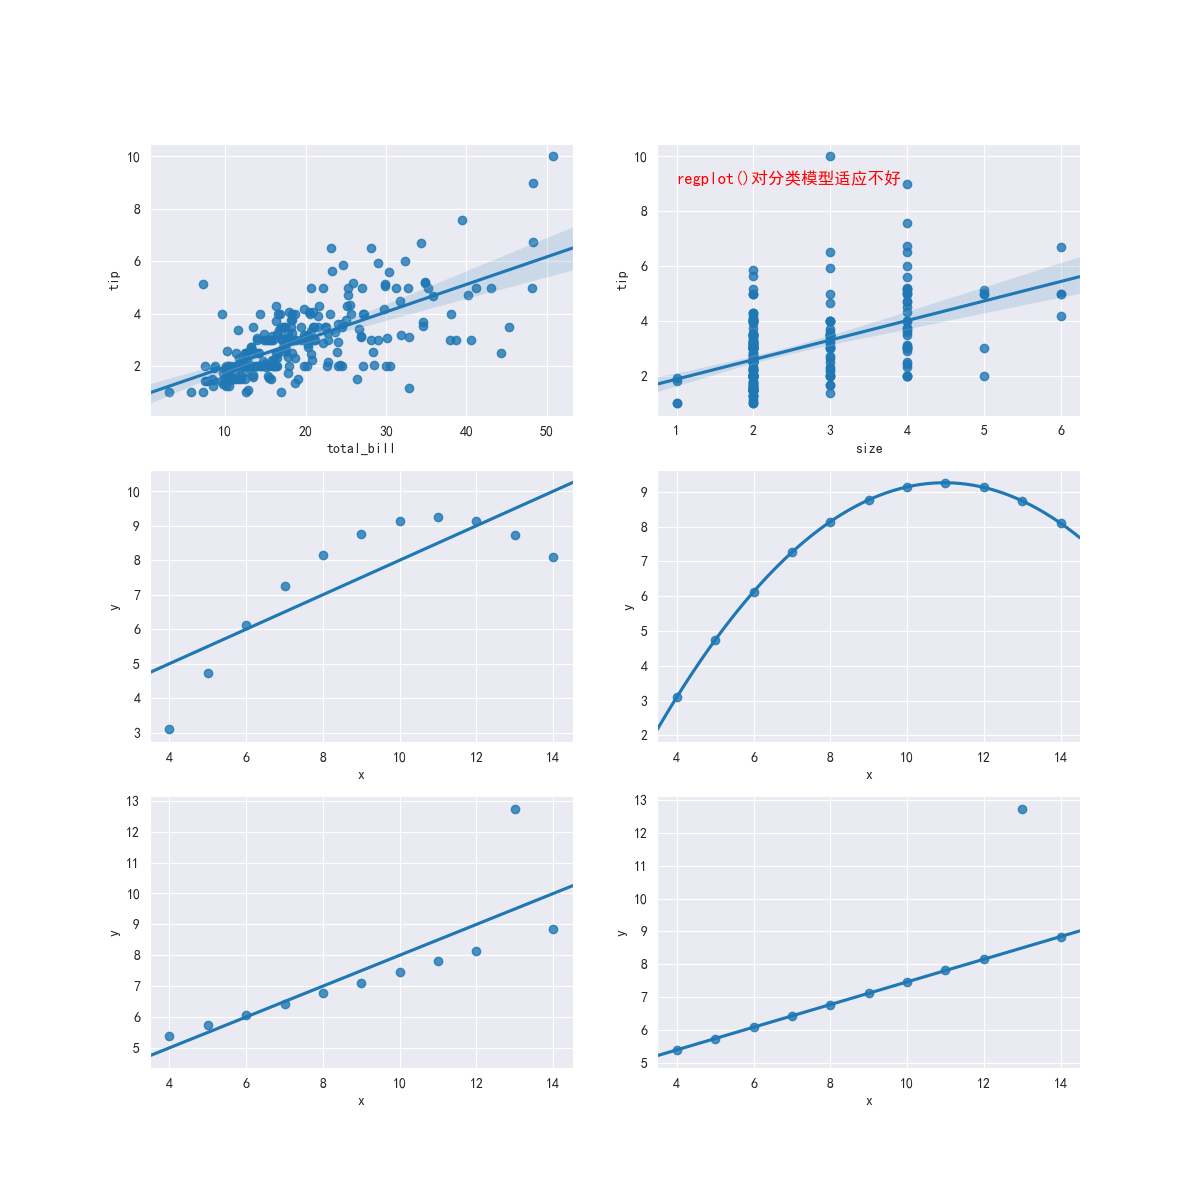
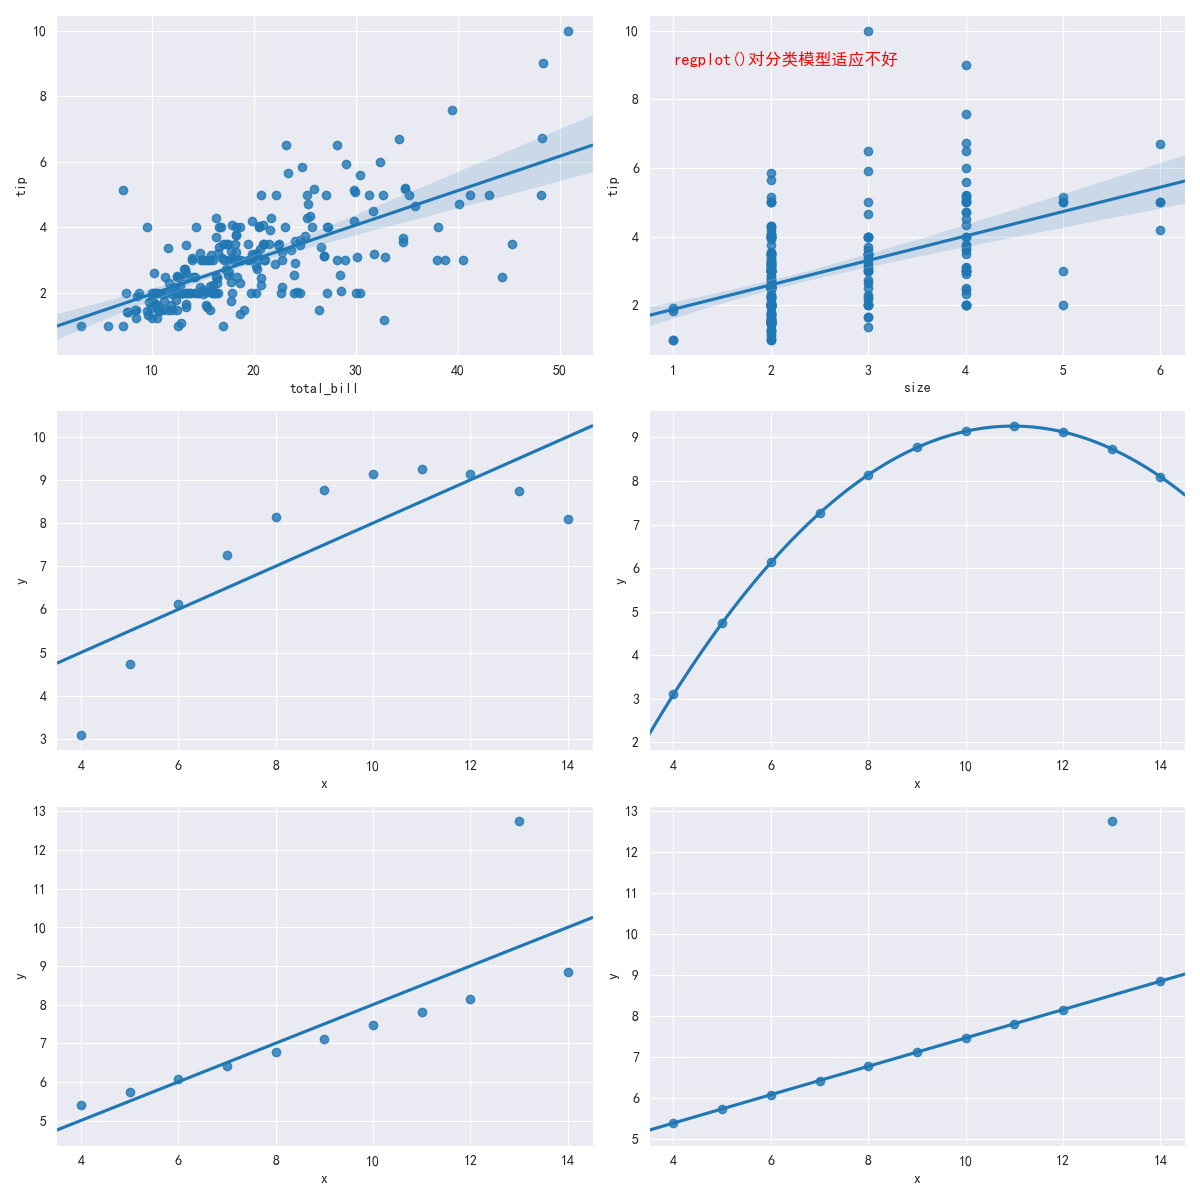
数据分析\数据可视化.md Day 6

diff --git a/assets/scripts/752_08.py b/assets/scripts/752_08.py
@@ -1,0 +1,56 @@
+import numpy as np
+import matplotlib.pyplot as plt
+import seaborn as sns
+import pandas as pd
+
+tips = sns.load_dataset("tips")
+titanic = sns.load_dataset("titanic")
+
+fig, ax = plt.subplots(3, 4, figsize=(16, 12))
+sns.set_style('darkgrid')
+
+plt.rcParams['font.sans-serif'] = ['SimHei'] # 设置显示中文
+plt.rcParams['axes.unicode_minus'] = False # 正常显示坐标轴的负号
+
+ax[0][0].set_title(u'分类散点图1(存在微小抖动)')
+sns.catplot(x="day", y="total_bill", data=tips, ax=ax[0][0])
+
+ax[0][1].set_title(u'分类散点图2(jitter = False来控制抖动大小)')
+sns.catplot(x="day", y="total_bill", jitter = False,data=tips, ax=ax[0][1])
+
+ax[0][2].set_title(u'分类散点图3(kind = "swarm"使得图形分布均匀)')
+sns.catplot(x="day", y="total_bill", kind="swarm", data=tips, ax=ax[0][2])
+
+ax[0][3].set_title(u'分类散点图4(增加第三维度)')
+sns.catplot(x="day", y="total_bill", hue="sex", kind="swarm", data=tips, ax=ax[0][3])
+
+ax[1][0].set_title(u'箱线图1')
+sns.catplot(x="day", y="total_bill", kind="box", data=tips, ax=ax[1][0])
+
+ax[1][1].set_title(u'箱线图2(增加第三维度)')
+sns.catplot(x="day", y="total_bill", hue="smoker", kind="box", data=tips, ax=ax[1][1])
+
+ax[1][2].set_title(u'小提琴图1(密度图和箱型图的结合)')
+sns.catplot(x="day", y="total_bill", hue="time",kind="violin", data=tips, ax=ax[1][2])
+
+ax[1][3].set_title(u'小提琴图2(增加第三维度，split = True 拆分小提琴)')
+sns.catplot(x="day", y="total_bill", hue="sex",kind="violin", split=True, data=tips, ax=ax[1][3])
+
+ax[2][0].set_title(u'条形图1(画出每个类别的平均值，黑色表示估计区间)')
+sns.catplot(x="sex", y="survived", hue="class", kind="bar", data=titanic, ax=ax[2][0])
+
+ax[2][1].set_title(u'条形图2(统计类别数量)')
+sns.catplot(x="deck", kind="count", data=titanic, ax=ax[2][1])
+
+ax[2][2].set_title(u'点图1(只画出估计值和区间)')
+sns.catplot(x="sex", y="survived", hue="class", kind="point", data=titanic, ax=ax[2][2])
+
+ax[2][3].set_title(u'点图2')
+sns.catplot(x="class", y="survived", hue="sex",
+            palette={"male": "g", "female": "m"},
+            markers=["^", "o"], linestyles=["-", "--"],
+            kind="point", data=titanic, ax=ax[2][3])
+
+# fig.suptitle('标题', fontsize=20)
+fig.tight_layout()
+fig.savefig('../images/752_08.png')

diff --git a/assets/scripts/752_07.py b/assets/scripts/752_07.py
@@ -31,5 +31,6 @@ sns.regplot(x = "x", y = "y", data = anscombe.query("dataset == 'III'"), ci = No
 plt.subplot(3, 2, 6)
 sns.regplot(x = "x", y = "y", data = anscombe.query("dataset == 'III'"), ci = None, robust = True) # 数据中有明显错误的数据点可以进行删除
 
+fig.tight_layout()
 plt.savefig('../images/752_07.png')
 plt.show()

diff --git a/数据分析/数据可视化.md b/数据分析/数据可视化.md
@@ -509,4 +509,67 @@ plt.show()
 
 ![拟合模型](../assets/images/752_07.png)
 
+#### 分类绘图
+
+```python
+import numpy as np
+import matplotlib.pyplot as plt
+import seaborn as sns
+import pandas as pd
+
+tips = sns.load_dataset("tips")
+titanic = sns.load_dataset("titanic")
+
+fig, ax = plt.subplots(3, 4, figsize=(16, 12))
+sns.set_style('darkgrid')
+
+plt.rcParams['font.sans-serif'] = ['SimHei'] # 设置显示中文
+plt.rcParams['axes.unicode_minus'] = False # 正常显示坐标轴的负号
+
+ax[0][0].set_title(u'分类散点图1(存在微小抖动)')
+sns.catplot(x="day", y="total_bill", data=tips, ax=ax[0][0])
+
+ax[0][1].set_title(u'分类散点图2(jitter = False来控制抖动大小)')
+sns.catplot(x="day", y="total_bill", jitter = False,data=tips, ax=ax[0][1])
+
+ax[0][2].set_title(u'分类散点图3(kind = "swarm"使得图形分布均匀)')
+sns.catplot(x="day", y="total_bill", kind="swarm", data=tips, ax=ax[0][2])
+
+ax[0][3].set_title(u'分类散点图4(增加第三维度)')
+sns.catplot(x="day", y="total_bill", hue="sex", kind="swarm", data=tips, ax=ax[0][3])
+
+ax[1][0].set_title(u'箱线图1')
+sns.catplot(x="day", y="total_bill", kind="box", data=tips, ax=ax[1][0])
+
+ax[1][1].set_title(u'箱线图2(增加第三维度)')
+sns.catplot(x="day", y="total_bill", hue="smoker", kind="box", data=tips, ax=ax[1][1])
+
+ax[1][2].set_title(u'小提琴图1(密度图和箱型图的结合)')
+sns.catplot(x="day", y="total_bill", hue="time",kind="violin", data=tips, ax=ax[1][2])
+
+ax[1][3].set_title(u'小提琴图2(增加第三维度，split = True 拆分小提琴)')
+sns.catplot(x="day", y="total_bill", hue="sex",kind="violin", split=True, data=tips, ax=ax[1][3])
+
+ax[2][0].set_title(u'条形图1(画出每个类别的平均值，黑色表示估计区间)')
+sns.catplot(x="sex", y="survived", hue="class", kind="bar", data=titanic, ax=ax[2][0])
+
+ax[2][1].set_title(u'条形图2(统计类别数量)')
+sns.catplot(x="deck", kind="count", data=titanic, ax=ax[2][1])
+
+ax[2][2].set_title(u'点图1(只画出估计值和区间)')
+sns.catplot(x="sex", y="survived", hue="class", kind="point", data=titanic, ax=ax[2][2])
+
+ax[2][3].set_title(u'点图2')
+sns.catplot(x="class", y="survived", hue="sex",
+            palette={"male": "g", "female": "m"},
+            markers=["^", "o"], linestyles=["-", "--"],
+            kind="point", data=titanic, ax=ax[2][3])
+
+# fig.suptitle('标题', fontsize=20)
+fig.tight_layout()
+fig.savefig('../images/752_08.png')
+```
+
+![分类绘图](../assets/images/752_08.png)
+
 ### 7.5.3 `pyecharts`
